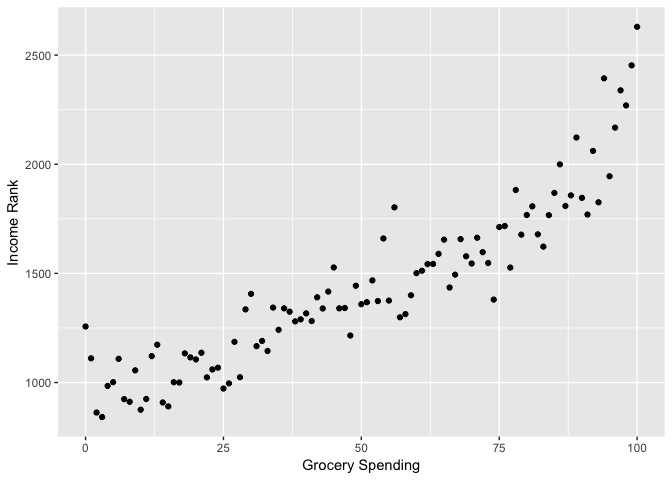
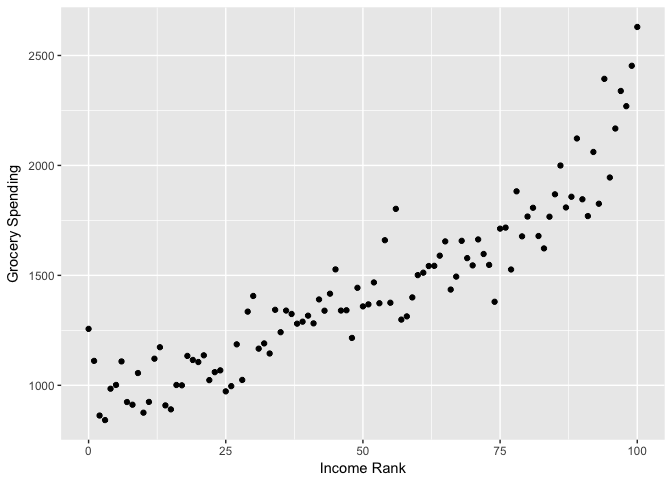
Revised lesson 6

diff --git a/lessons/06-scatterplots.md b/lessons/06-scatterplots.md
@@ -168,7 +168,7 @@ This first graphic shows the basic problem with the data, which is the highly no
 
 ``` r
 g1<-g1+geom_smooth(method="lm")
-g1<-g1+xlab("Grocery Spending")+ylab("Income Rank")
+g1<-g1+ylab("Grocery Spending")+xlab("Income Rank")
 g1
 ```
 
@@ -187,7 +187,7 @@ g1a<-ggplot(cex_sum,aes(x=inc_rank_r,y=groc_mean))
 
 g1a<-g1a+geom_point()
 
-g1a<-g1a+xlab("Grocery Spending")+ylab("Income Rank")
+g1a<-g1a+ylab("Grocery Spending")+xlab("Income Rank")
 
 g1a
 ```
@@ -277,7 +277,7 @@ g2<-ggplot(data=cex,
 g2<-g2+scale_y_continuous(trans="log",breaks=my.breaks)
 g2<-g2+geom_point(size=.25)
 g2<-g2+theme(legend.position="bottom"  , legend.title = element_blank())
-g2<-g2+xlab("Grocery Spending")+ylab("Income Rank")
+g2<-g2+ylab("Grocery Spending")+xlab("Income Rank")
 g2
 ```
 
@@ -295,7 +295,7 @@ g2a<-g2a+scale_y_continuous(trans="log",breaks=my.breaks,limits=c(100,8000)) #Ch
 g2a<-g2a+geom_point(size=.25) 
 g2a<-g2a+scale_colour_hue(l=50) #Darker palette
 g2a<-g2a+theme(legend.position = "bottom" , legend.title = element_blank())
-g2a<-g2a+xlab("Grocery Spending")+ylab("Income Rank")
+g2a<-g2a+ylab("Grocery Spending")+xlab("Income Rank")
 g2a
 ```
 
@@ -371,6 +371,9 @@ g3
     ## Warning: Removed 1134 rows containing missing values (geom_point).
 
 ![](06-scatterplots_files/figure-markdown_github-ascii_identifiers/unnamed-chunk-12-1.png)
+
+Plotting more complex models
+----------------------------
 
 As we add more variables to the model, it can get more difficult to plot relationships. One very good option is to plot lines based on a hypothetical set of data. Below, I create a hypothetical set of data that include values of income across the range of income, and includes values for every level of `childage`.
 
